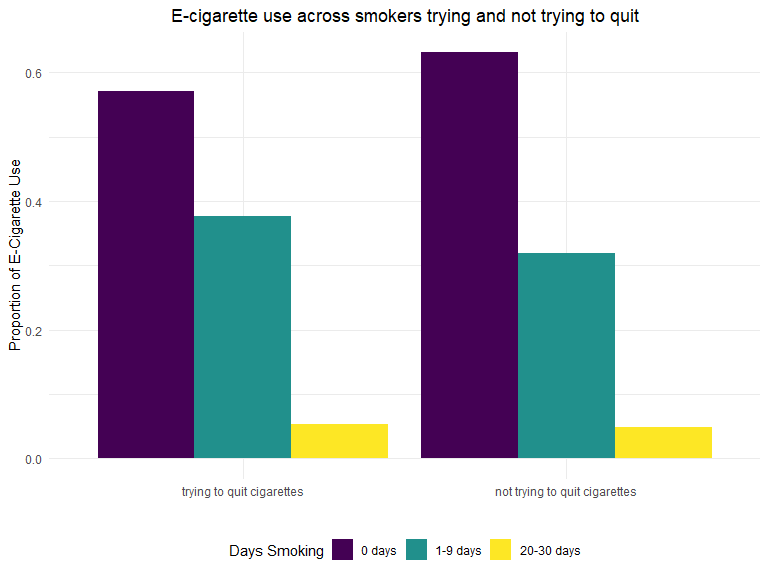
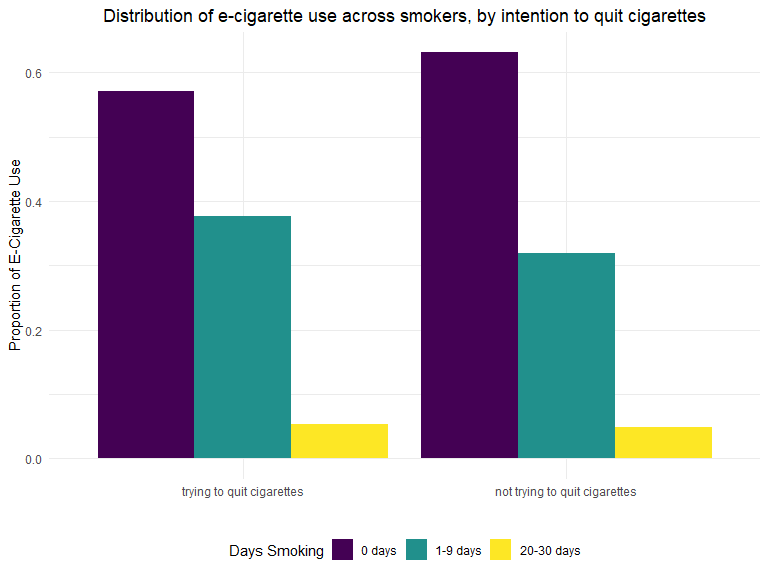
FINAL Report

Changed region(s): [[0.125, 0.0, 0.9062, 0.0625]]

diff --git a/final_report.md b/final_report.md
@@ -213,7 +213,7 @@ total, male, and female prevalences of e-cigarette use in 2016.
 ## Exploratory Analysis
 
 To address our first question, we created line plots to visualize how
-frequency of e-cigarette and standard cigarette use among youth have
+the frequency of e-cigarette and standard cigarette use among youth have
 changed from 2011-2018.
 
 ``` r
@@ -412,8 +412,10 @@ Again, all individuals 10 years old or younger were excluded due to the
 lack of representation described in the Data section. This bar plot
 displays a similar trend to the line plots above. Overall, we can
 observe that the proportion of individuals who have tried e-cigarettes
-has increased with age from 2011-2018. However, this plot shows that
-these proportions also increase among males and females.
+has increased with age from 2011-2018. However, this plot also shows
+that this trend is consistent among males and females separately, which
+a higher proportion of males, on average, trying e-cigarettes across age
+and year.
 
 Next, we examined how individuals’ perceptions of the harmfulness of
 e-cigarettes compared to standard cigarettes may have changed over time.
@@ -539,7 +541,7 @@ ecig_data %>%
   ggplot(aes(x = quit_cig, y = prop, fill = ecigs_past_month)) + 
   geom_bar(stat = "identity", position = "dodge") + 
   labs(x = "", y = "Proportion of E-Cigarette Use", fill = "Days Smoking", 
-       title = "E-cigarette use across smokers trying and not trying to quit") +
+       title = "Distribution of e-cigarette use across smokers, by intention to quit cigarettes") +
   theme(plot.title = element_text(hjust = 0.5))
 ```
 
@@ -547,12 +549,13 @@ ecig_data %>%
 
 We can see that the proportion of e-cigarette use among those trying and
 not trying to quit smoking are fairly equal. Therefore, there is
-evidence that whether or not an individual is trying to quit smoking is
-not indicative of their frequency of e-cigarette use.
+evidence that many youth are using e-cigarettes for purposes other than
+their original intention, that is, to quit cigarettes.
 
-To address our third question, we created U.S. maps to display the
-number of legislations regarding e-cigarette use enacted in each state.
-The maps below represent state-specific amounts of e-cigarette
+To address our third question (how e-cigarette legislation has changed
+over time throughout the United States), we created U.S. maps to display
+the number of legislations regarding e-cigarette use enacted in each
+state. The maps below represent state-specific amounts of e-cigarette
 legislation in 2011 and 2018.
 
 <img src="./images/legislation_2011.png" width="80%" /><img src="./images/legislation_2018.png" width="80%" />
@@ -700,10 +703,7 @@ of e-cigarette use were higher compared to those who had never heard of
 e-cigarettes. People had lower odds of using e-cigarettes if they
 believed that e-cigarettes were more harmful than standard cigarettes.
 Similarly, individuals who believed that e-cigarettes were less harmful
-than standard cigarettes had higher odds of e-cigarette use. In
-addition, individuals who did not know whether e-cigarettes were more or
-less harmful than standard cigarettes had lower odds of e-cigarette use,
-compared to those who had never heard of e-cigarettes.
+than standard cigarettes had higher odds of e-cigarette use.
 
 Finally, compared to people who never viewed Internet e-cigarette ads,
 individuals who viewed ads at any rate had significantly higher odds of
@@ -711,6 +711,7 @@ using e-cigarettes. As the rate of viewing e-cigarette ads increases,
 the odds of e-cigarette use also increase, which is expected.
 Interestingly, those who did not use the Internet had higher odds of
 using e-cigarettes compared to those never viewed ads on the Internet.
+We suspect this result is due to the inaccuracy of survey responses.
 
 ``` r
 ##OR plot
@@ -737,10 +738,9 @@ found that e-cigarette consumption is significantly higher among
 cigarette smokers, older youth, males, white individuals, and people who
 perceived e-cigarettes to be less harmful than cigarettes. Our findings
 match the results of previous studies geared towards investigating
-patterns of e-cigarette use among youth. However, it is surprising that
-all seven variables included in the logistic regression model are
-significant (`p < 0.05`). This includes the rate of viewing e-cigarette
-ads on the Internet, a novel addition to the literature. Individuals who
+patterns of e-cigarette use among youth. We also found a significant
+association between the rate of viewing e-cigarette ads on the Internet
+and e-cigarette use, a novel addition to the literature. Individuals who
 viewed more ads online were more likely to use e-cigarettes.
 Additionally, we were able to determine that legislation restricting
 youth access to e-cigarettes has increased steadily from 2011 to 2018
@@ -755,8 +755,10 @@ Therefore, to gain an idea, we visualized prevalence of e-cigarette use
 among adults in 2016. In addition, we were unable to incorporate the
 weights introduced by the survey data into the logistic regression
 model, since the large weight values (\>1000) prevented model
-construction. Lastly, since this is an exploratory analysis, we are
-unable to establish causality between any exposure or outcome variables.
+construction. We were also unable to use certain years and ages in our
+analysis due to missingness and lack of representation. Lastly, since
+this is an exploratory analysis, we are unable to establish causality
+between any exposure or outcome variables.
 
 Identifying risk factors of e-cigarette use is necessary to better
 understand the epidemic and to implement new public health policies to
